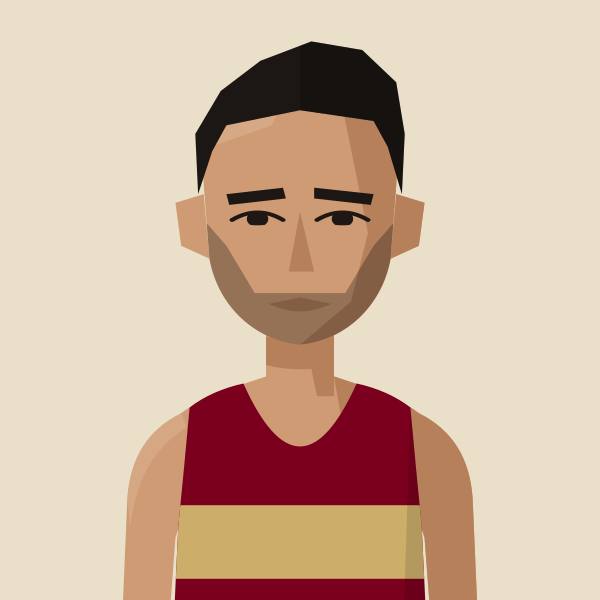
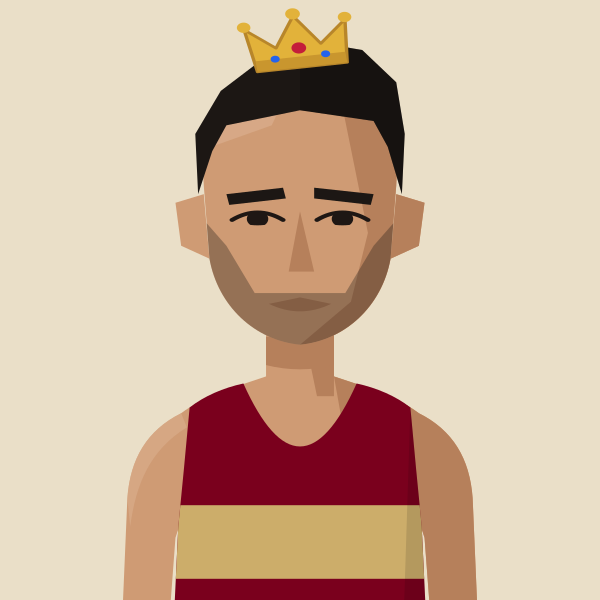
Alex Janiaud gets a little crown
Claude-Session: https://claude.ai/code/session_01MgmDWhFqnSSnP4iBLKXUZC

Changed region(s): [[0.39, 0.0, 0.6, 0.12]]

diff --git a/tools/gen_portraits.py b/tools/gen_portraits.py
@@ -120,7 +120,7 @@ FACIAL = {
     "stubble": '<path d="M66,112 L74,124 L84,146 L116,146 L126,124 L134,112 L134,180 L66,180 Z" opacity=".32"/>',
 }
 
-def figure(kit, mode="custom", skin=1, hair="crop", hair_colour="dark brown", facial=None, cap=None, shades=False, tattoos=False, beanie=None, mud=False, glasses=False, roots=None, stars=0, gaunt=False, greying=False, headband=None, cap_back=False, facial_colour=None, tag="f", shades_col=None, shades_up=False, scrunchie=None):
+def figure(kit, mode="custom", skin=1, hair="crop", hair_colour="dark brown", facial=None, cap=None, shades=False, tattoos=False, beanie=None, mud=False, glasses=False, roots=None, stars=0, gaunt=False, greying=False, headband=None, cap_back=False, facial_colour=None, tag="f", shades_col=None, shades_up=False, scrunchie=None, crown=False):
     primary, extras, ground = KITS[kit]
     line = mode == "outline"
     if mode == "custom": sk, dk, lt = SKIN[skin]
@@ -223,6 +223,10 @@ def figure(kit, mode="custom", skin=1, hair="crop", hair_colour="dark brown", fa
                   f'<path d="M56,97 Q100,82 144,97 Q144,100 142,101 Q100,88 58,101 Q56,100 56,97 Z" fill="#fff" opacity=".35"/>'
                   f'<g clip-path="url(#r{tag})" fill="#000" opacity=".12"><path d="M63,98 C61,58 80,38 100,38 C120,38 139,58 137,98 Z"/></g>'
                   f'<path d="M62,110 Q100,99 138,110 L136,114 Q100,104 64,114 Z" fill="#000" opacity=".28"/>')
+    if custom and crown:  # little gold crown perched at a jaunty angle
+        hg.append('<g transform="translate(0,5) rotate(-8 100 30)"><path d="M84,36 L82,16 L92,26 L100,12 L108,26 L118,16 L116,36 Z" fill="#E2B23A" stroke="#B8862A" stroke-width="1.2" stroke-linejoin="round"/>'
+                  '<rect x="84" y="31" width="32" height="5" fill="#C9962E"/><circle cx="82" cy="15" r="2.4" fill="#E2B23A"/><circle cx="100" cy="11" r="2.6" fill="#E2B23A"/><circle cx="118" cy="15" r="2.4" fill="#E2B23A"/>'
+                  '<circle cx="100" cy="27" r="2.6" fill="#C41E3A"/><circle cx="91" cy="31" r="1.6" fill="#2563EB"/><circle cx="109" cy="31" r="1.6" fill="#2563EB"/></g>')
     o.append(f'<g {SQ}>' + "".join(hg) + '</g>')
     # kit: the site's own vest icon, scaled into this vest
     o.append(f'<g clip-path="url(#v{tag})"><path d="{VEST}" fill="{primary}"/><g {KIT_MAP}>{extras}</g>'
@@ -334,7 +338,7 @@ save("chisholm", figure("THH", skin=1, hair="croppeak", hair_colour="dark brown"
 save("panchev", figure("H/W", skin=2, hair="tousled", hair_colour="black", shades=True))
 save("royer", figure("G&G", skin=2, hair="longcurls", hair_colour="black", facial="beard"))
 save("kelly", figure("BEL", skin=1, hair="quiff", hair_colour="light brown", facial="stubble"))
-save("janiaud", figure("BEL", skin=3, hair="quiff", hair_colour="black", facial="stubble"))
+save("janiaud", figure("BEL", skin=3, hair="quiff", hair_colour="black", facial="stubble", crown=True))
 save("renshaw", figure("THH", skin=1, hair="quiffrecede", hair_colour="#C9945A"))
 save("ramm", figure("DUL", skin=1, hair="tousled", hair_colour="mid brown", facial="stubble"))
 save("dyer", figure("BEL", skin=1, hair="tousled", hair_colour="blonde", headband="#1C1C1E"))
